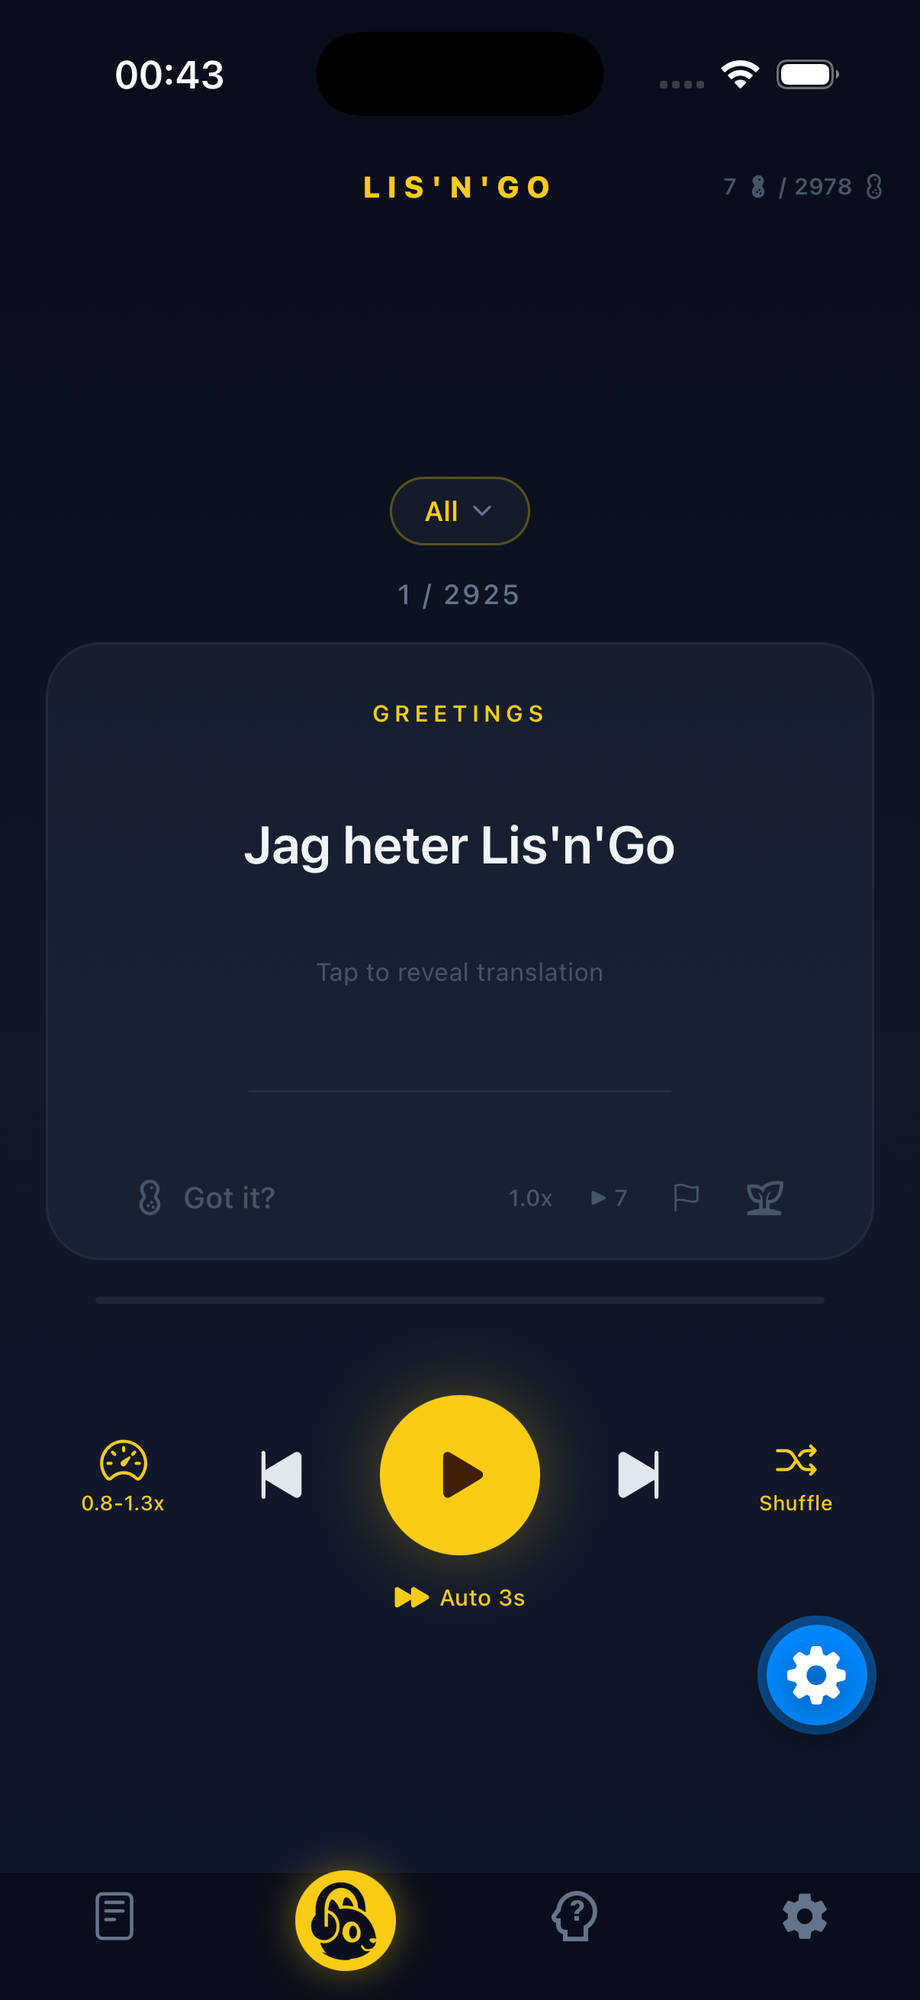
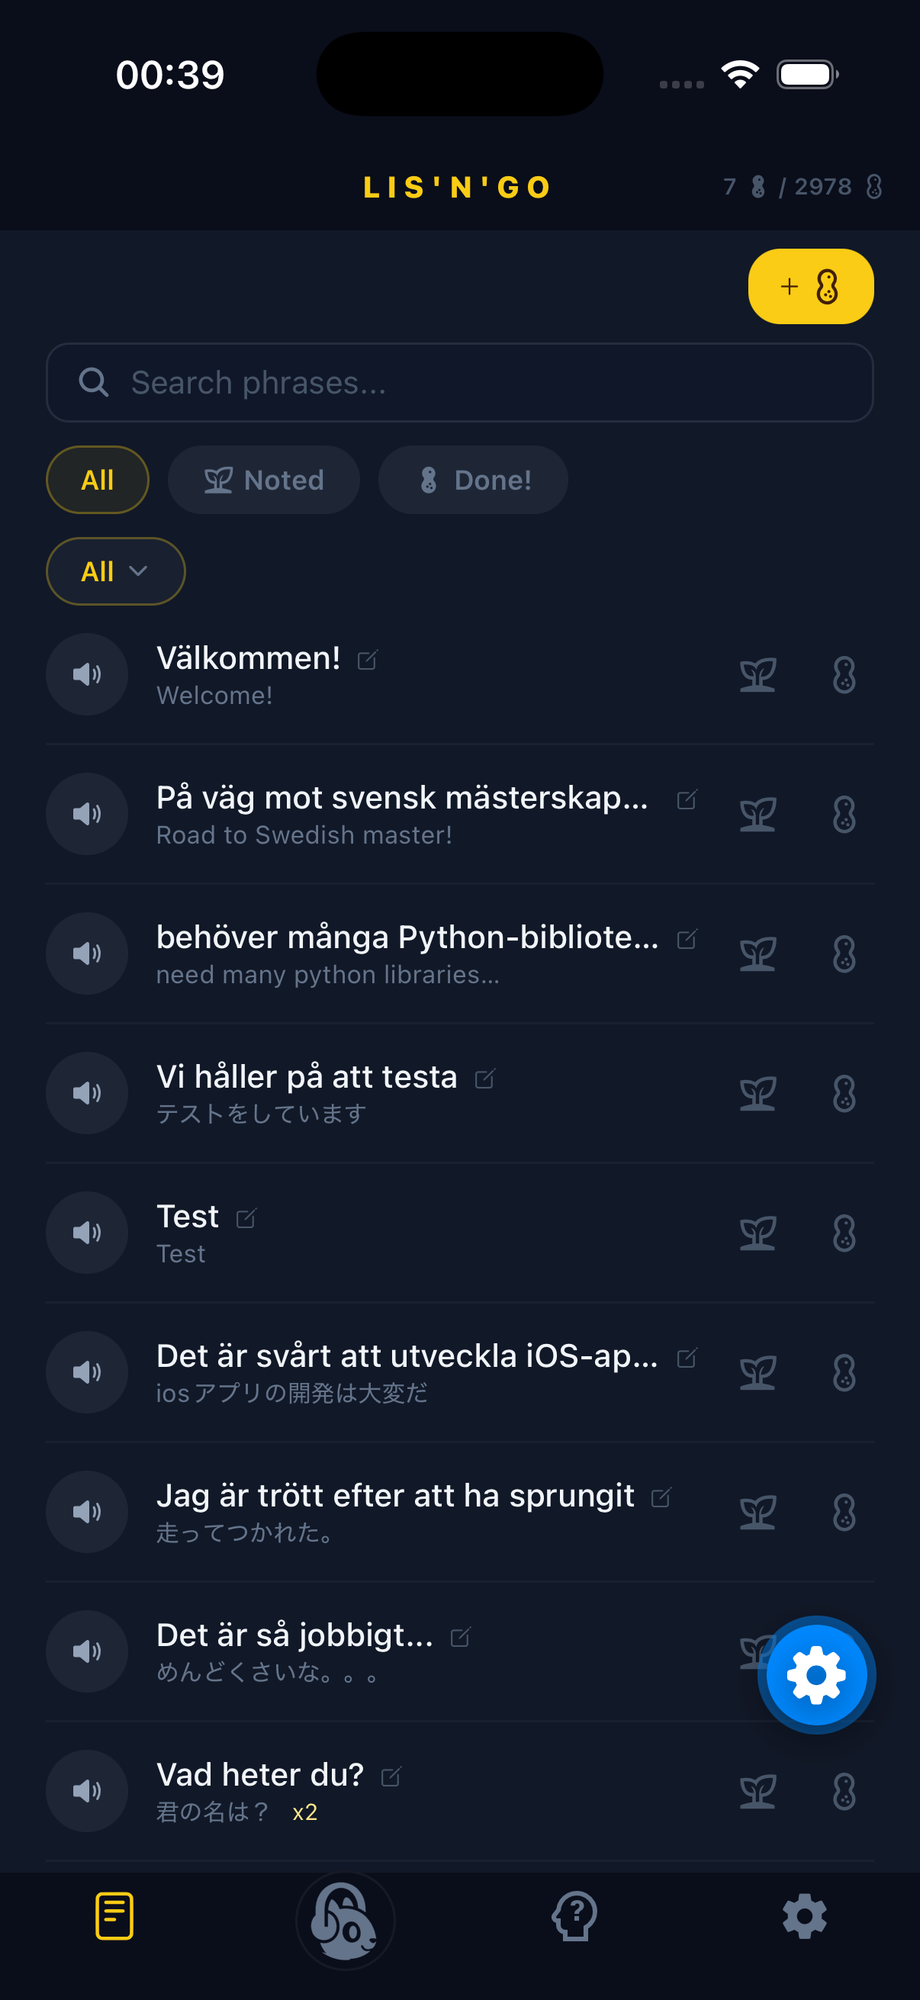
fix: replace player screenshot + stack voice demo on mobile
- Swap in clean player screenshot without settings gear overlay
- Stack Female/Male audio rows vertically to prevent mobile wrap
- Add panel background and breathing room around voice demo

diff --git a/index.html b/index.html
@@ -116,28 +116,39 @@
     /* Audio demo */
     .audio-demo {
       text-align: center;
-      margin: 1.5rem 0 2rem;
+      margin: 3rem 0;
+      padding: 1.5rem 1rem;
+      background: rgba(30,41,59,0.3);
+      border-radius: 12px;
     }
     .audio-demo p {
       font-size: 0.8rem;
       color: #64748B;
-      margin-bottom: 0.8rem;
+      margin-bottom: 1.2rem;
     }
     .audio-demo .demo-row {
       display: flex;
-      gap: 12px;
-      justify-content: center;
+      flex-direction: column;
+      gap: 0.8rem;
       align-items: center;
-      flex-wrap: wrap;
+    }
+    .audio-demo .demo-item {
+      display: flex;
+      gap: 12px;
+      align-items: center;
+      justify-content: center;
+      width: 100%;
     }
     .audio-demo label {
       font-size: 0.75rem;
       color: #94A3B8;
       font-weight: 600;
+      min-width: 50px;
+      text-align: right;
     }
     .audio-demo audio {
       height: 32px;
-      max-width: 200px;
+      max-width: 220px;
     }
 
     /* Features */
@@ -261,10 +272,14 @@
       <div class="audio-demo">
         <p>"Trevligt att träffas! I den här appen används den här typen av röst."</p>
         <div class="demo-row">
-          <label>Female</label>
-          <audio controls preload="none" src="demo-female.mp3"></audio>
-          <label>Male</label>
-          <audio controls preload="none" src="demo-male.mp3"></audio>
+          <div class="demo-item">
+            <label>Female</label>
+            <audio controls preload="none" src="demo-female.mp3"></audio>
+          </div>
+          <div class="demo-item">
+            <label>Male</label>
+            <audio controls preload="none" src="demo-male.mp3"></audio>
+          </div>
         </div>
       </div>
 
@@ -342,10 +357,14 @@
       <div class="audio-demo">
         <p>「はじめまして！このアプリではこのような音声が使われています。」</p>
         <div class="demo-row">
-          <label>女性</label>
-          <audio controls preload="none" src="demo-female.mp3"></audio>
-          <label>男性</label>
-          <audio controls preload="none" src="demo-male.mp3"></audio>
+          <div class="demo-item">
+            <label>女性</label>
+            <audio controls preload="none" src="demo-female.mp3"></audio>
+          </div>
+          <div class="demo-item">
+            <label>男性</label>
+            <audio controls preload="none" src="demo-male.mp3"></audio>
+          </div>
         </div>
       </div>
 
